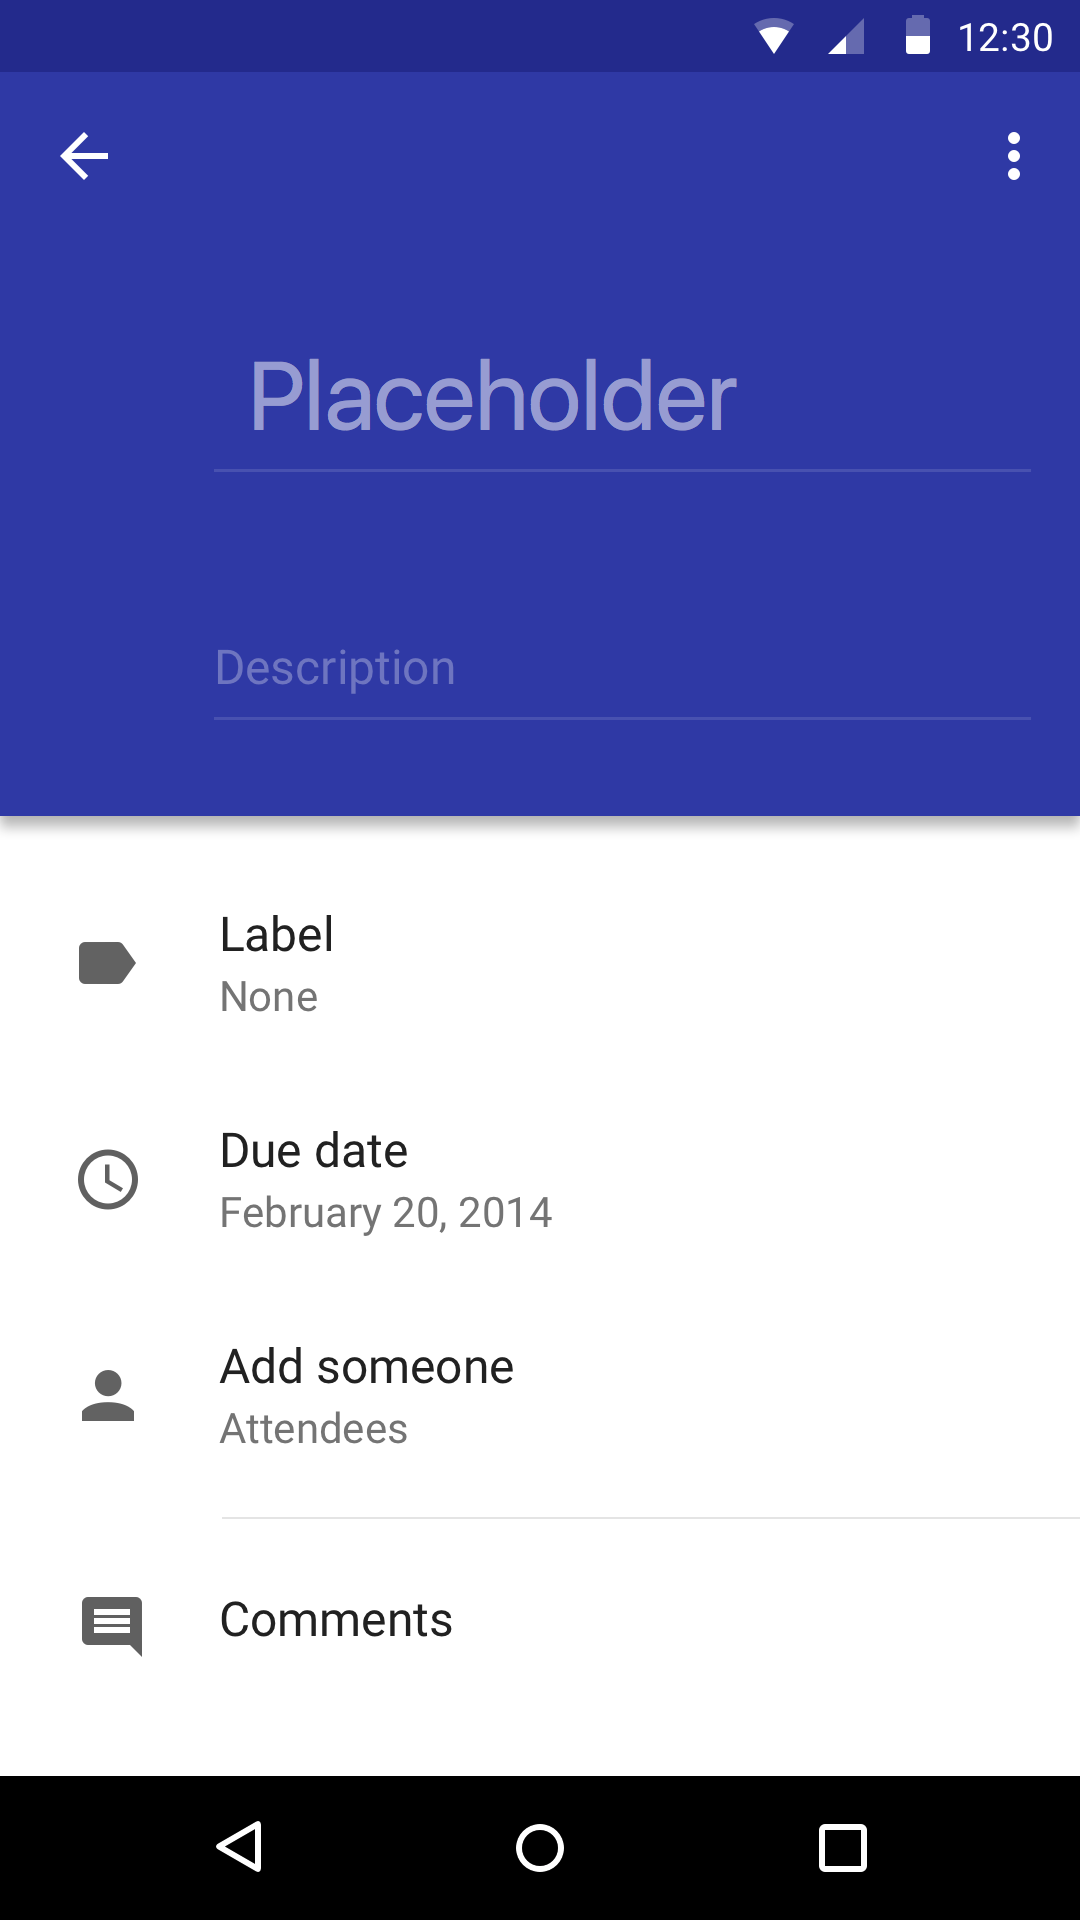
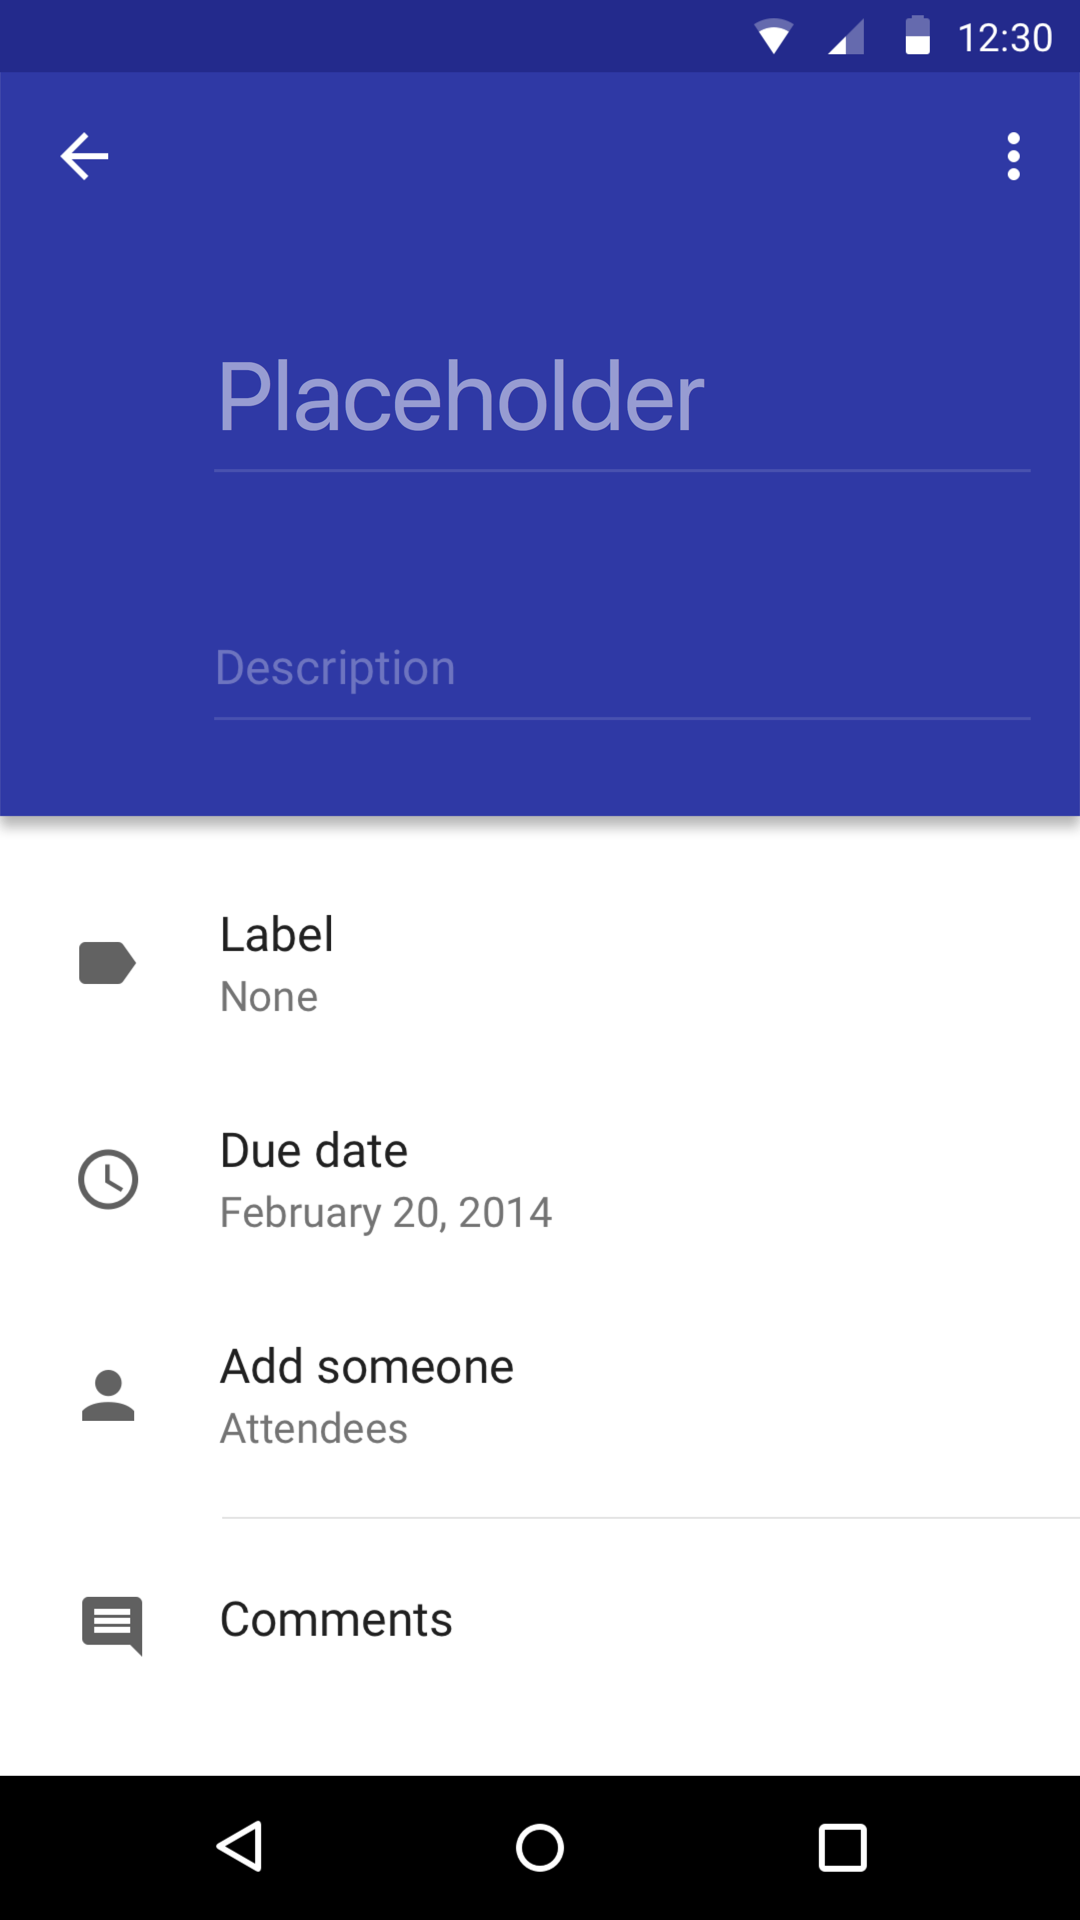
Input placeholder behaviour, wrap element in layer to allow positioning properties to be used instead of CSS margins

Changed region(s): [[0.1833, 0.1875, 0.6722, 0.25]]

diff --git a/extras/Studio.framer/.viewer.html b/extras/Studio.framer/.viewer.html
@@ -28,7 +28,7 @@
 		<link rel="stylesheet" type="text/css" href="framer/style.css?nocache=6d40bc53861208d298f85019e08849ff">
 
 		<script src="framer/coffee-script.js"></script>
-		<script src="framer/framer.debug.js?nocache=a91a5e8ca511cf1e26e9067d148a4600"></script>
+		<script src="framer/framer.debug.js?nocache=c4c3325dcbe0a1e2290f28f62d2dff86"></script>
 		<script src="framer/framer.generated.js?nocache=26ee4ee677a91e3096a406d4495c39cc"></script>
 		<script src="framer/framer.modules.js?nocache=0eb2a21c7ad38d7168f5d6a26245d49f"></script>
 		<script src="framer/framer.init.js"></script>
